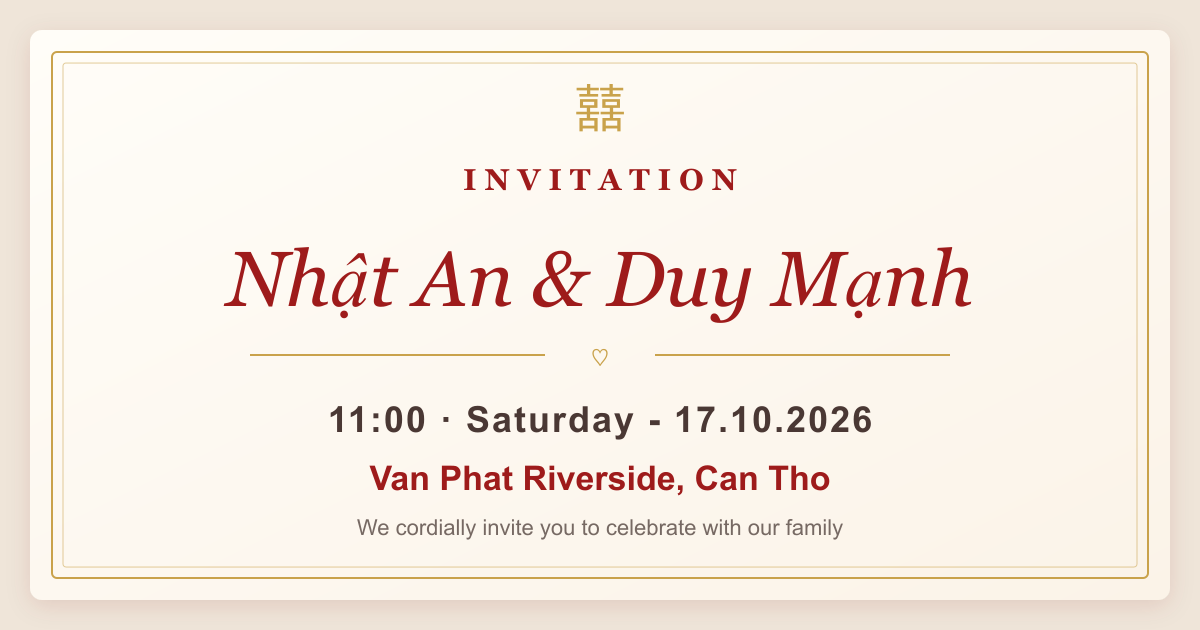
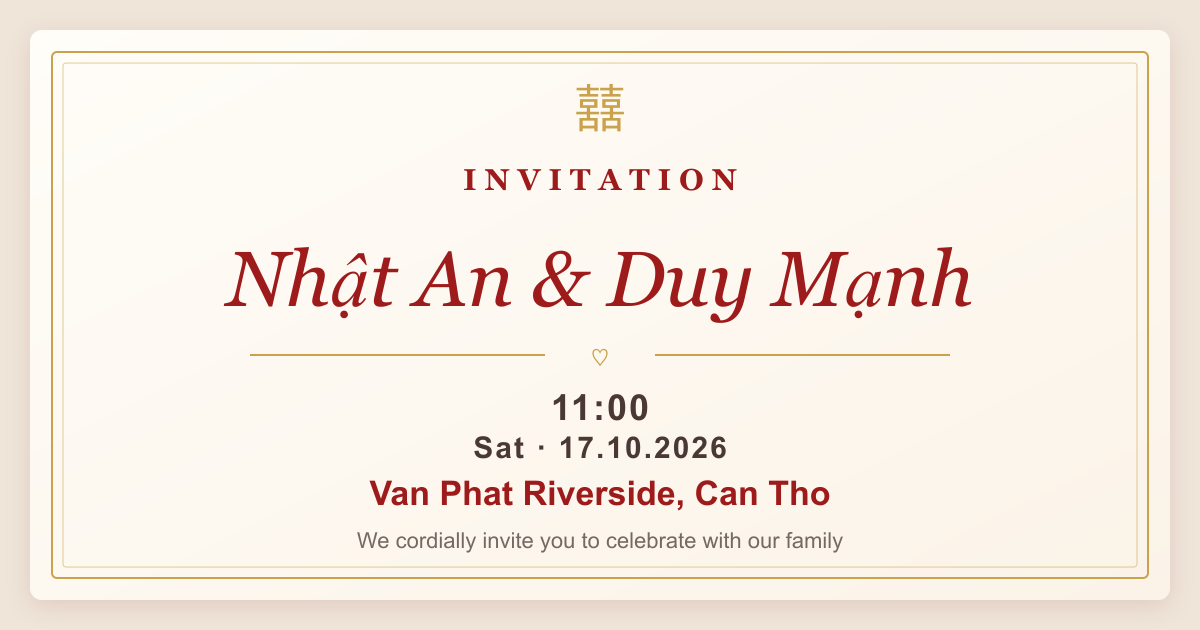
fix: refine wedding date layout

Changed region(s): [[0.2775, 0.6333, 0.74, 0.8746]]

diff --git a/src/app/pages/invite/invite.component.spec.ts b/src/app/pages/invite/invite.component.spec.ts
@@ -24,7 +24,8 @@ const testTranslations = {
     reception_short_venue: 'Vạn Phát Riverside, Cần Thơ',
     reception_address: 'Số 02 Nguyễn Văn Cừ (Cồn Khương), phường Cái Khế, TP Cần Thơ',
     date: 'Ngày',
-    event_date: 'Thứ 7 - 17.10.2026',
+    ceremony_date: '17.10.2026',
+    reception_date: 'Thứ 7 · 17.10.2026',
     rsvp_intro: 'Sự hiện diện của quý khách là niềm vinh hạnh cho gia đình chúng tôi.',
   },
 };
@@ -46,7 +47,8 @@ const englishTranslations = {
     reception_short_venue: 'Van Phat Riverside, Can Tho',
     reception_address: '02 Nguyen Van Cu, Cai Khe ward, Can Tho',
     date: 'Date',
-    event_date: 'Saturday - 17.10.2026',
+    ceremony_date: '17.10.2026',
+    reception_date: 'Sat · 17.10.2026',
     lunar: 'Lunar date',
     time: 'Time',
     welcome: 'Guest welcome',
@@ -186,7 +188,13 @@ describe('InviteComponent', () => {
 
     expect(heroNames.indexOf('Nhật An')).toBeLessThan(heroNames.indexOf('Duy Mạnh'));
     expect(coverText).toContain('11:00');
-    expect(coverText).toContain('Thứ 7 - 17.10.2026');
+    expect(coverText).toContain('Thứ 7 · 17.10.2026');
+    const coverTime = element.querySelector('.cover-event-time');
+    const coverDate = element.querySelector('.cover-event-date');
+    expect(coverTime?.textContent?.trim()).toBe('11:00');
+    expect(coverDate?.textContent?.trim()).toBe('Thứ 7 · 17.10.2026');
+    expect(getComputedStyle(coverTime as Element).display).toBe('block');
+    expect(getComputedStyle(coverDate as Element).display).toBe('block');
     expect(coverText).toContain('Vạn Phát Riverside');
     expect(Array.from(element.querySelectorAll('.save-the-day span'))
       .map(line => line.textContent?.trim()))
@@ -223,7 +231,8 @@ describe('InviteComponent', () => {
       .toContain('Trân trọng báo tin Lễ Vu Quy của');
     expect(sectionText('.invitation-intro')).not.toContain('của chúng tôi');
     expect(sectionText('.ceremony-card')).toContain('08:00');
-    expect(sectionText('.ceremony-card')).toContain('Thứ 7 - 17.10.2026');
+    expect(sectionText('.ceremony-card')).toContain('17.10.2026');
+    expect(sectionText('.ceremony-card')).not.toContain('Thứ 7');
     expect(sectionText('.ceremony-card')).toContain('Tư gia nhà gái');
     expect(sectionText('.ceremony-card')).not.toContain('Bình Thủy, Cần Thơ');
     expect(sectionText('.reception-card')).toContain(
@@ -236,7 +245,7 @@ describe('InviteComponent', () => {
     expect(element.querySelector('.reception-card .event-place .reception-venue-name')).not.toBeNull();
     expect(sectionText('.reception-card')).toContain('10:30');
     expect(sectionText('.reception-card')).toContain('11:00');
-    expect(sectionText('.reception-card')).toContain('Thứ 7 - 17.10.2026');
+    expect(sectionText('.reception-card')).toContain('Thứ 7 · 17.10.2026');
     expect(sectionText('.reception-card')).toContain(
       'Sự hiện diện của quý khách là niềm vinh hạnh cho gia đình chúng tôi.',
     );
@@ -279,7 +288,7 @@ describe('InviteComponent', () => {
       element.querySelector(selector)?.textContent?.replace(/\s+/g, ' ').trim() ?? '';
 
     expect(sectionText('.cover-hero')).toContain('Van Phat Riverside, Can Tho');
-    expect(sectionText('.cover-hero')).toContain('Saturday - 17.10.2026');
+    expect(sectionText('.cover-hero')).toContain('Sat · 17.10.2026');
     expect(sectionText('.invitation-intro'))
       .toContain('We respectfully announce the Vu Quy ceremony');
     expect(sectionText('.invitation-intro')).toContain('Eldest Daughter');
@@ -287,7 +296,9 @@ describe('InviteComponent', () => {
     expect(sectionText('.reception-card'))
       .toContain('We cordially invite you to celebrate with the family at');
     expect(sectionText('.ceremony-card')).toContain("the Bride's house");
-    expect(sectionText('.ceremony-card')).toContain('Saturday - 17.10.2026');
+    expect(sectionText('.ceremony-card')).toContain('17.10.2026');
+    expect(sectionText('.ceremony-card')).not.toContain('Sat');
+    expect(sectionText('.reception-card')).toContain('Sat · 17.10.2026');
     expect(sectionText('.ceremony-card')).toContain('Year of the Fire Horse');
     expect(sectionText('.reception-venue-name')).toContain('Van Phat Riverside - Hall 1');
     expect(sectionText('.reception-card'))
@@ -381,7 +392,7 @@ describe('InviteComponent', () => {
     const dateValue = dateRow?.querySelector('.event-value');
 
     expect(dateRow?.querySelector('.event-label')?.textContent?.trim()).toBe('Ngày');
-    expect(dateValue?.textContent?.trim()).toBe('Thứ 7 - 17.10.2026');
+    expect(dateValue?.textContent?.trim()).toBe('Thứ 7 · 17.10.2026');
     expect(element.querySelectorAll('.reception-card .event-time-grid .event-value')).toHaveLength(2);
   });
 

diff --git a/src/app/components/rsvp-form/rsvp-form.component.spec.ts b/src/app/components/rsvp-form/rsvp-form.component.spec.ts
@@ -148,7 +148,7 @@ describe('RsvpFormComponent', () => {
       your_name: 'Bác vui lòng cho em xin tên',
       bus_outbound_title: 'Xe khởi hành Hồ Chí Minh đi Cần Thơ:',
       departure_label: 'Xuất phát',
-      bus_outbound_departure: '07:15 - Thứ 7 - 17.10.2026',
+      bus_outbound_departure: '07:15 · Thứ 7 · 17.10.2026',
       location_label: 'Địa điểm',
       bus_outbound_location: 'IBIS SAIGON AIRPORT',
       bus_restaurant_arrival: 'Dự kiến đến nhà hàng',
@@ -193,7 +193,7 @@ describe('RsvpFormComponent', () => {
     await fixture.whenStable();
     fixture.detectChanges();
     const busText = text('.bus-info');
-    expect(busText).toContain('07:15 - Thứ 7 - 17.10.2026');
+    expect(busText).toContain('07:15 · Thứ 7 · 17.10.2026');
     expect(busText).toContain('10:45');
     expect(busText).toContain('13:30');
     expect(busText).toContain('17:30');
@@ -243,7 +243,7 @@ describe('RsvpFormComponent', () => {
     translate.setTranslation('en', { rsvp: {
       bus_outbound_title: 'Shuttle from Ho Chi Minh City to Can Tho:',
       departure_label: 'Departure',
-      bus_outbound_departure: '07:15 - Saturday - 17.10.2026',
+      bus_outbound_departure: '07:15 · Sat · 17.10.2026',
       location_label: 'Location',
       bus_outbound_location: 'IBIS SAIGON AIRPORT',
       bus_restaurant_arrival: 'Estimated arrival at the restaurant',
@@ -270,7 +270,7 @@ describe('RsvpFormComponent', () => {
     fixture.detectChanges();
 
     const busText = element.querySelector('.bus-info')?.textContent?.replace(/\s+/g, ' ').trim() ?? '';
-    expect(busText).toContain('07:15 - Saturday - 17.10.2026');
+    expect(busText).toContain('07:15 · Sat · 17.10.2026');
     expect(busText).toContain('10:45');
     expect(busText).toContain('17:30');
     expect(busText).toContain('IBIS SAIGON AIRPORT');
@@ -408,7 +408,7 @@ describe('RsvpFormComponent', () => {
         confirmation_bus: 'Bác đã lựa chọn tham dự & hốt {{count}} suất xe đưa đón khứ hồi HCM–CT cho',
         bus_outbound_title: 'Xe khởi hành Hồ Chí Minh đi Cần Thơ:',
         departure_label: 'Xuất phát',
-        bus_outbound_departure: '07:15 - Thứ 7 - 17.10.2026',
+        bus_outbound_departure: '07:15 · Thứ 7 · 17.10.2026',
         location_label: 'Địa điểm',
         bus_outbound_location: 'IBIS SAIGON AIRPORT',
         bus_restaurant_arrival: 'Dự kiến đến nhà hàng',
@@ -461,7 +461,7 @@ describe('RsvpFormComponent', () => {
     )).toEqual(['STRONG', 'STRONG']);
     const confirmedBusInfo: HTMLElement | null =
       fixture.nativeElement.querySelector('.rsvp-confirmation .bus-info');
-    expect(confirmedBusInfo?.textContent).toContain('07:15 - Thứ 7 - 17.10.2026');
+    expect(confirmedBusInfo?.textContent).toContain('07:15 · Thứ 7 · 17.10.2026');
     expect(confirmedBusInfo?.textContent).toContain('10:45');
     expect(confirmedBusInfo?.textContent).toContain('13:30');
     expect(confirmedBusInfo?.textContent).toContain('17:30');

diff --git a/src/app/pages/invite/invite.component.html b/src/app/pages/invite/invite.component.html
@@ -34,9 +34,8 @@
         <span class="cover-name">{{ cfg.couple.groom }}</span>
       </h1>
       <strong>
-        {{ cfg.reception.datetime | date:'HH:mm':'+0700' }}
-        <i aria-hidden="true">·</i>
-        {{ 'details.event_date' | translate }}
+        <span class="cover-event-time" style="display: block">{{ cfg.reception.datetime | date:'HH:mm':'+0700' }}</span>
+        <span class="cover-event-date" style="display: block">{{ 'details.reception_date' | translate }}</span>
       </strong>
       <em>{{ 'details.reception_short_venue' | translate }}</em>
     </div>
@@ -98,7 +97,7 @@
         </div>
         <div>
           <span>{{ 'details.date' | translate }}</span>
-          <strong>{{ 'details.event_date' | translate }}</strong>
+          <strong>{{ 'details.ceremony_date' | translate }}</strong>
         </div>
       </div>
       <p class="lunar-date reveal-step" style="--reveal-delay: .3s">
@@ -133,7 +132,7 @@
         </div>
         <div class="reception-date-row">
           <span class="event-label">{{ 'details.date' | translate }}</span>
-          <strong class="event-value">{{ 'details.event_date' | translate }}</strong>
+          <strong class="event-value">{{ 'details.reception_date' | translate }}</strong>
         </div>
       </div>
       <div class="reveal-step" style="--reveal-delay: .45s">

diff --git a/src/app/pages/public-group/public-group.component.spec.ts b/src/app/pages/public-group/public-group.component.spec.ts
@@ -68,7 +68,7 @@ describe('PublicGroupComponent', () => {
       'Danh sách nhóm Tiến bước',
     );
     expect(getComputedStyle(eyebrow as Element).textAlign).toBe('left');
-    expect(eyebrow?.textContent).toContain('Thứ 7 - 17.10.2026');
+    expect(eyebrow?.textContent).toContain('Thứ 7 · 17.10.2026');
     expect(getComputedStyle(title as Element).textAlign).toBe('left');
     expect(element.textContent).not.toContain(
       'Danh sách được cập nhật từ xác nhận mới nhất của từng khách.',

diff --git a/src/app/core/wedding-config.spec.ts b/src/app/core/wedding-config.spec.ts
@@ -41,7 +41,7 @@ describe('wedding config', () => {
     expect(WEDDING.rsvp.deadlineISO).toBe('2026-10-10T11:30:00+07:00');
     expect(WEDDING.rsvp.bus).toEqual({
       pickup: 'Ibis hotel, 2 Hồng Hà, Tân Sơn Hòa, Hồ Chí Minh',
-      departTime: '7:15 Thứ 7 - 17.10.2026',
+      departTime: '7:15 · Thứ 7 · 17.10.2026',
       restaurantArrivalTime: '10:45',
       returnDepartTime: '13:30',
       hotelArrivalTime: '17:30',

diff --git a/src/assets/config/wedding.config.ts b/src/assets/config/wedding.config.ts
@@ -50,7 +50,7 @@ export const WEDDING: WeddingConfig = {
     deadlineISO: '2026-10-10T11:30:00+07:00',
     bus: {
       pickup: 'Ibis hotel, 2 Hồng Hà, Tân Sơn Hòa, Hồ Chí Minh',
-      departTime: '7:15 Thứ 7 - 17.10.2026',
+      departTime: '7:15 · Thứ 7 · 17.10.2026',
       restaurantArrivalTime: '10:45',
       returnDepartTime: '13:30',
       hotelArrivalTime: '17:30',

diff --git a/src/styles.scss b/src/styles.scss
@@ -146,9 +146,12 @@ main.invite {
   font-size: clamp(.95rem, 3.5vw, 1.15rem);
   letter-spacing: .06em;
 }
-.cover-details > strong i {
-  padding: 0 .3rem;
-  font-style: normal;
+.cover-event-time,
+.cover-event-date {
+  display: block;
+}
+.cover-event-date {
+  margin-top: .1rem;
 }
 .cover-details > em {
   color: rgba(255, 248, 235, .88);

diff --git a/src/app/pages/public-group/public-group.component.html b/src/app/pages/public-group/public-group.component.html
@@ -1,6 +1,6 @@
 <main class="group-page">
   <header>
-    <p class="eyebrow">Mạnh & An · Thứ 7 - 17.10.2026</p>
+    <p class="eyebrow">Mạnh & An · Thứ 7 · 17.10.2026</p>
     <h3 class="group-title">{{ title }}</h3>
   </header>
 
